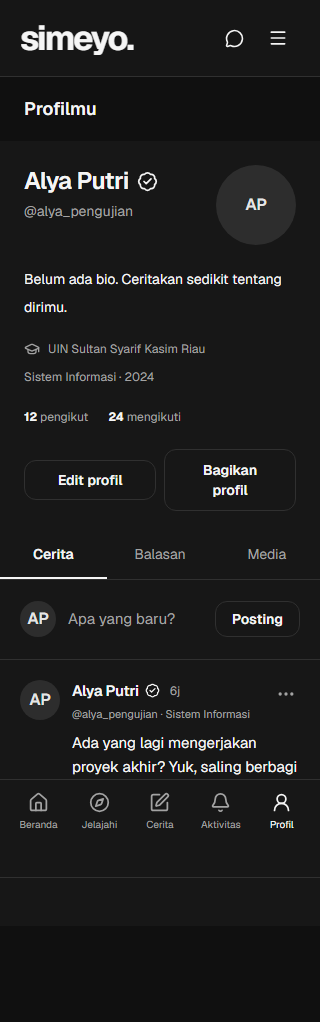
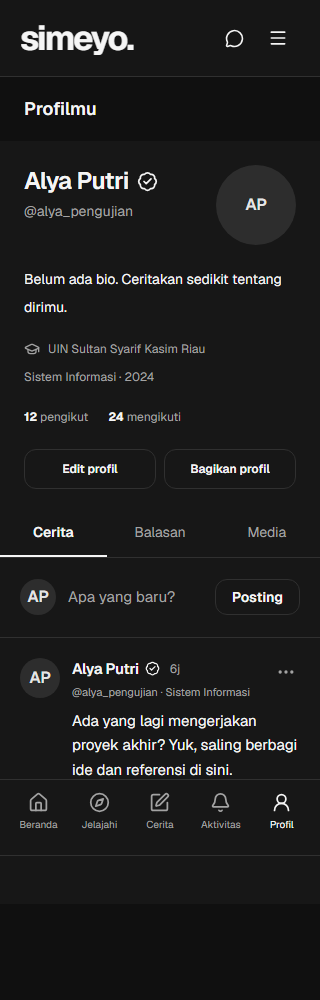
docs: record completed maturity and privacy acceptance [skip ci]

diff --git a/docs/testing/maturity-2026-10-15.md b/docs/testing/maturity-2026-10-15.md
@@ -30,3 +30,21 @@ Latest full browser run: [38768254369](https://github.com/mhmdhabibrafi/simeyo/a
 Fresh dependency review still shows five web tooling and 18 mobile high entries; web runtime audit is zero. Upstream published versions do not supply a compatible fix for the underlying advisories. No forced Expo/Next downgrade or advisory suppression was applied.
 
 **BELUM DIUJI:** real Google campus accounts, real campus inbox/link acceptance, installed native/push acceptance, production restore/cutover, off-host encrypted backups and external alert routing. Existing isolated recovery/load checks are not proof of a production disaster recovery drill or sustained campus-scale capacity. No v1 release claim is made.
+
+## Follow-up privacy correction and verified infrastructure
+
+- A cached message response could remain rendered after a refresh received an access error. Source **a0d40cf** now hides the history/composer on query error and clears message/conversation/notification caches after blocking. A fixture test explicitly loads content, revokes access, then verifies the private text and composer disappear.
+- Web lint/type checking/build passed. Three focused local messaging tests passed (6.8 seconds). A supplemental local history probe passed (2.4 seconds): loading the older page kept the previously visible message within three pixels of its original position.
+- Web/gateway were updated to `maturity-a0d40cf`; API/worker/Reverb keep the matching application logic from `maturity-578e8af`. Both image types were built under the new tag for future Compose consistency. No new migration, seeding or database replacement occurred.
+- **11 public-assets UI tests passed**, 39.0 seconds, including cached-access revocation, incoming-message scroll behavior and secondary-page accessibility. Internal trusted TLS/security/health/WSS checks passed again.
+- [ff7ec14 standard checks](https://github.com/mhmdhabibrafi/simeyo/actions/runs/38768250362): **all four jobs passed**. Includes PostgreSQL backend tests, shared contracts, mobile checks, isolated database/media/key recovery, and HTTPS/FPM/worker/realtime topology.
+- Isolated sustained read load: **960 requests, zero failures, 119.93 seconds**, target/actual 8 requests per second; six endpoint p95 values ranged **67–193 ms**. This is CI capacity evidence, not a production campus-scale benchmark.
+- Latest privacy/messaging browser run [38769658093](https://github.com/mhmdhabibrafi/simeyo/actions/runs/38769658093) and latest automatic standard checks [38769656497](https://github.com/mhmdhabibrafi/simeyo/actions/runs/38769656497) remain running at this checkpoint. The broader ff7ec14 full browser run also remains pending. Do not infer any of these pending results from the earlier successful checks.
+
+## Completed browser acceptance
+
+- [Full browser run 38768254369](https://github.com/mhmdhabibrafi/simeyo/actions/runs/38768254369): **28 tests passed** across all 11 spec files on ff7ec14. This includes real API/PostgreSQL account, campus, messaging/realtime, graph/privacy, media, moderation and session flows, plus 10 fixture presentation tests.
+- [Privacy/messaging run 38769658093](https://github.com/mhmdhabibrafi/simeyo/actions/runs/38769658093): **3 real API browser tests passed** on a0d40cf, covering persisted messages/realtime and the social/private-follow/mute/block flows after the cache correction. These overlap the broader suite; they are not 31 distinct tests.
+- The a0d40cf automatic standard run was superseded/canceled by a small profile-action style follow-up, not reported as passed. The complete ff7ec14 standard run remains the verified infrastructure/load/recovery baseline.
+- Source **671f921** keeps profile action labels on one line at 320px. Web/gateway use `maturity-671f921`; API/worker/Reverb remain on `maturity-578e8af` with identical API logic. Its automatic standard run [38770476610](https://github.com/mhmdhabibrafi/simeyo/actions/runs/38770476610) is pending at this checkpoint. No additional full-browser rerun is claimed for this style-only follow-up.
+- The deployed 671f921 secondary-page test passed (24.3 seconds), covering 320px profile/settings/community/event/activity views, retry and accessibility. The corrected profile screenshot was visually inspected. Internal trusted HTTPS/security/WSS checks passed after this final web/gateway update.

diff --git a/docs/security/release-review-2026-10-15.md b/docs/security/release-review-2026-10-15.md
@@ -2,6 +2,8 @@
 
 This is an engineering review with recorded tests, not a completed production certification or an independent penetration test. v0.4.0/v1.0.0 acceptance remains open.
 
+Latest follow-up evidence supersedes older counts below: 79 local backend tests / 522 assertions, successful PostgreSQL CI, 28 full browser tests and 3 focused privacy/messaging regressions. Cached conversations are hidden after access errors and cleared after blocking. The isolated sustained-load run completed 960 requests with zero failures and endpoint p95 67–193 ms; backup/media/key recovery passed in CI. See [exact source, deployment and testing scope](../testing/maturity-2026-10-15.md).
+
 ## Scope and evidence
 
 - Reviewed the authentication/session boundary, campus and transitive content visibility, private media handling, notification filtering, push send/receipt lifecycle, native account/cache lifecycle, backup scripts, build context and new HTTPS/FPM release configuration.
@@ -23,10 +25,10 @@ These development/build-tooling advisories remain a release gate. A clean runtim
 |---|---|
 | Dependency remediation | Five web and 18 mobile high entries remain; recheck compatible upstream patches before release. |
 | Native Android/iOS and push | Android and iOS simulator builds passed; Android partial installed-app checks passed but complete relaunch/profile acceptance remains open. iOS login UI retry is pending. Physical-device/push and store signing remain unverified. |
-| Provider operations | Real SMTP, Expo/FCM/APNs credentials and push delivery are not verified. Push stays disabled by default. |
+| Provider operations | Resend API verification/reset templates were accepted by its simulator and delivery is enabled. Real campus inbox/link acceptance, Expo/FCM/APNs credentials and push delivery remain unverified. Push stays disabled by default. |
 | Full disaster recovery | Production media, encryption keys, retention, off-host copies, recovery-point/time objectives and operator cutover are not exercised. |
 | Sustained performance | Seeded 120-second HTTPS/FPM CI read load passed 960 requests / zero errors / endpoint p95 113–328 ms; representative production scale, longer soak, resource budgets and external provider load remain unverified. |
-| Production operations | Private WSS through TLS and worker stop/recovery detection passed in isolated CI. Actual domain/certificates, least-privilege database roles, agreed resource budgets, external alert routing and operator rollback still require acceptance. |
+| Production operations | Public domain/TLS, private WSS and worker health passed on the authorized server; stop/recovery detection passed in isolated CI. Agreed resource budgets, external alert routing and a complete operator cutover/rollback drill still require acceptance. |
 | Account lifecycle | Define and implement the operator-approved retention/deletion process before broad campus rollout. |
 
 The owner subsequently authorized a separate public web release-candidate installation on the Mediasi server; actual scope and limitations are recorded in [server operations](../operations/mediasi-server.md). No store submission or image publication was performed. Existing local data, application keys and demo passwords were preserved.

diff --git a/README.md b/README.md
@@ -6,7 +6,7 @@ Current locally verified milestone: **v0.3.0 — campus experience**. The Expo/P
 
 The authorized server release candidate is available at **https://simeyo.mhmdhabibrafi.me**. There is no marketing landing page: `/` opens the feed and signed-out visitors continue to login. Firebase Google campus sign-in is deployed; real Google campus-account acceptance is pending Firebase Console setup/testing. Password registration creates pending accounts. Verification/recovery email is enabled through the Resend HTTPS API; provider simulator acceptance passed, while real campus inbox delivery remains untested. See [email evidence](docs/testing/resend-2026-10-15.md), [authentication](AUTHENTICATION.md) and [server operations and verified scope](docs/operations/mediasi-server.md); public availability does not mark v1.0.0 acceptance complete.
 
-The consumer layout now has a centered feed, one menu beside the wordmark, a modal thread composer with a themed audience selector, and a quieter profile layout. See [actual UI and regression evidence](docs/testing/consumer-ui-2026-10-15.md); fixture-based visual checks and real API acceptance are identified separately.
+The consumer layout has a centered feed, one account menu at the bottom of the desktop sidebar, a modal composer and a two-panel inbox. Latest refinements include message previews, reader-aware scrolling, cached-access protection and clearer campus screens. See [maturity and production-check evidence](docs/testing/maturity-2026-10-15.md) and [earlier UI evidence](docs/testing/consumer-ui-2026-10-15.md); fixture visual checks and real API acceptance are identified separately.
 
 Social features use the Laravel API and PostgreSQL: text/images, nested threads, interactions, follows/private requests, bookmarks and cursor feeds. Campus modules include communities/events, Pulse/search, messaging, notifications and moderation. See [campus architecture](docs/architecture/campus-experience.md) and [mobile implementation and limits](MOBILE.md).
 

diff --git a/docs/operations/mediasi-server.md b/docs/operations/mediasi-server.md
@@ -50,3 +50,6 @@ Messaging deployment checkpoint: a9a6430 public assets passed all eight fixture 
 
 DM final acceptance: a46aec7 communications browser run 38738630237 passed (real persisted messages, private Reverb, notifications, mobile/accessibility; 8.5 seconds), and standard CI 38738628255 passed all jobs. Resend follow-up 401fa46 is installed on API/worker/Reverb. Restricted send-only key was valid: its /domains 401 was a permissions response, not invalid credentials. Provider and actual Laravel verification/reset templates were accepted by the Resend simulator; delivery is now enabled and the private proxy mail guard removed. Internal TLS/security/WSS and queue checks passed; public recovery controls are enabled with CSRF intact. Real campus inbox/link acceptance remains BELUM DIUJI. See docs/testing/resend-2026-10-15.md. New mail-source standard CI 38765092939 remains pending at this checkpoint.
 
+
+Latest maturity deployment: API/worker/Reverb use maturity-578e8af; web/gateway use maturity-671f921. Images were built for both types under each tag; only web/gateway were recreated for the final privacy/style follow-ups. PostgreSQL and media volumes, APP_KEY, Firebase/Resend settings and user data were preserved. A new private database archive passed inventory validation; no production restore was performed. Trusted internal TLS/security/WSS and queue checks passed. Exact CI, backup checksum and public UI scope: ../testing/maturity-2026-10-15.md.
+

diff --git a/PROGRESS.md b/PROGRESS.md
@@ -146,3 +146,6 @@ Maturity follow-up: added inbox last-message/time previews with batched database
 
 Deployment checkpoint: maturity-578e8af is active after new images built and a private production database backup passed archive validation. Public-assets UI 10 tests passed (56.3 seconds); trusted internal TLS/security/WSS and worker probe passed. Test-only selector follow-up ff7ec14 scopes message assertions to the chat log. Full browser 38768254369 and standard 38768250362 remain running. Details: docs/testing/maturity-2026-10-15.md.
 
+
+Final maturity checkpoint: full browser 38768254369 passed 28 tests on ff7ec14; privacy/messaging 38769658093 passed 3 overlapping real-API tests on a0d40cf. Complete ff7ec14 standard CI passed all four jobs, including PostgreSQL, recovery and 960-request load (zero failures, p95 67-193 ms). Public-assets UI passed 11 tests on a0d40cf (39.0 seconds). Final style-only 671f921 is deployed on web/gateway and its 320px secondary-page/accessibility check passed (24.3 seconds); API/worker/Reverb remain maturity-578e8af. Latest automatic standard CI 38770476610 is pending at this checkpoint. Real campus Google/inbox checks were explicitly deferred by the owner; native/push, off-host recovery and external alert routing remain open. Evidence: docs/testing/maturity-2026-10-15.md.
+

diff --git a/CHANGELOG.md b/CHANGELOG.md
@@ -82,3 +82,6 @@ Native-mobile and v1.0.0 releases are not declared.
 
 - Added batched last-message previews across web/native inboxes and reader-aware chat scrolling; improved secondary-page empty/error states and unread activity presentation.
 
+
+- Hide cached conversations/composer after access errors and clear DM/activity caches after blocking. Keep narrow profile action buttons aligned. Real API privacy regressions and public UI checks passed; see maturity test evidence for source-specific scope.
+
